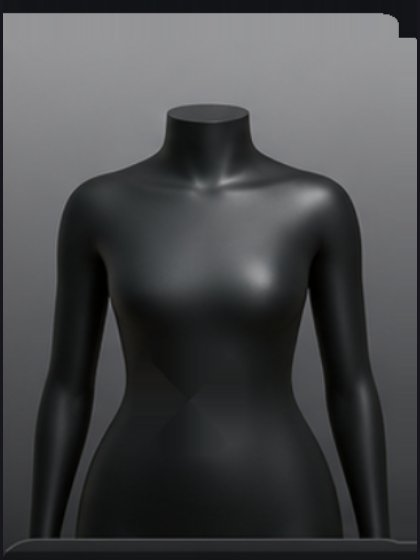
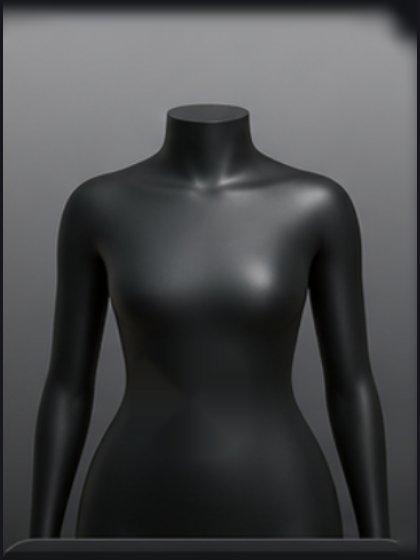
Center orphan image tile and smooth body-tile inpaint
- Switch .ab-imgs from a rigid 3-col grid to centered flex-wrap so the
  lone 10th tile centers instead of stranding on the left.
- Re-inpaint the body sheets' baked selection highlight with a smooth
  diffusion fill (removes the seam left on the Muscular abs) and
  re-crop/replace all 20 body tiles.

Claude-Session: https://claude.ai/code/session_01LtrfuRwtPkdJgT6z8HJFSY

Changed region(s): [[0.0, 0.0, 1.0, 0.1821]]

diff --git a/public/styles.css b/public/styles.css
@@ -984,8 +984,8 @@
 .ab-card-l { font-size: .78rem; font-weight: 600; }
 .ab-card-i { position: absolute; right: .5rem; bottom: .4rem; font-size: 1.05rem; opacity: .8; }
 /* image options (ethnicity) */
-.ab-imgs { display: grid; grid-template-columns: repeat(3, 1fr); gap: .5rem; }
-.ab-img { position: relative; aspect-ratio: 3 / 4; border-radius: 11px; overflow: hidden; border: 1px solid var(--line-2); background: #17161d; cursor: pointer; padding: 0; transition: border-color .12s ease; }
+.ab-imgs { display: flex; flex-wrap: wrap; gap: .5rem; justify-content: center; }
+.ab-img { flex: 0 0 calc((100% - 1rem) / 3); position: relative; aspect-ratio: 3 / 4; border-radius: 11px; overflow: hidden; border: 1px solid var(--line-2); background: #17161d; cursor: pointer; padding: 0; transition: border-color .12s ease; }
 .ab-img:hover { border-color: #4a4a52; }
 .ab-img.on { border-color: transparent; box-shadow: 0 0 0 2px #ff9ad4 inset; }
 .ab-img.on::after { content: '✓'; position: absolute; top: 7px; right: 7px; width: 20px; height: 20px; border-radius: 50%; background: var(--split); color: #0a0a0b; font-size: .72rem; font-weight: 800; display: grid; place-items: center; box-shadow: 0 1px 4px rgba(0, 0, 0, .45); }
